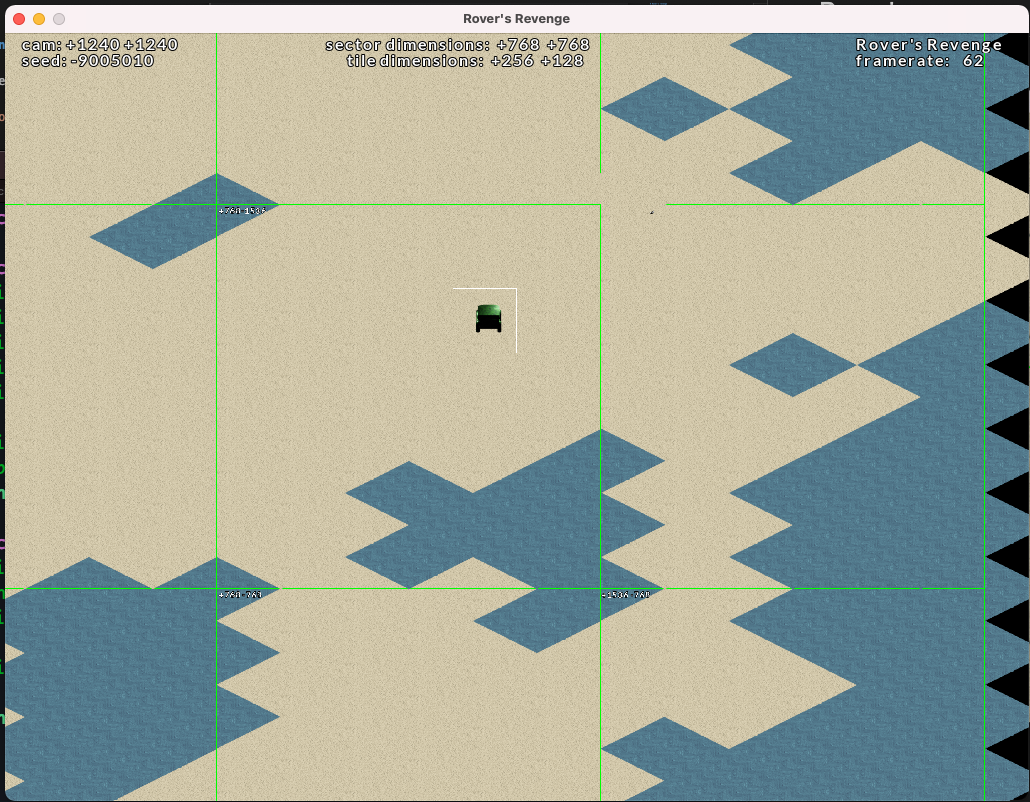
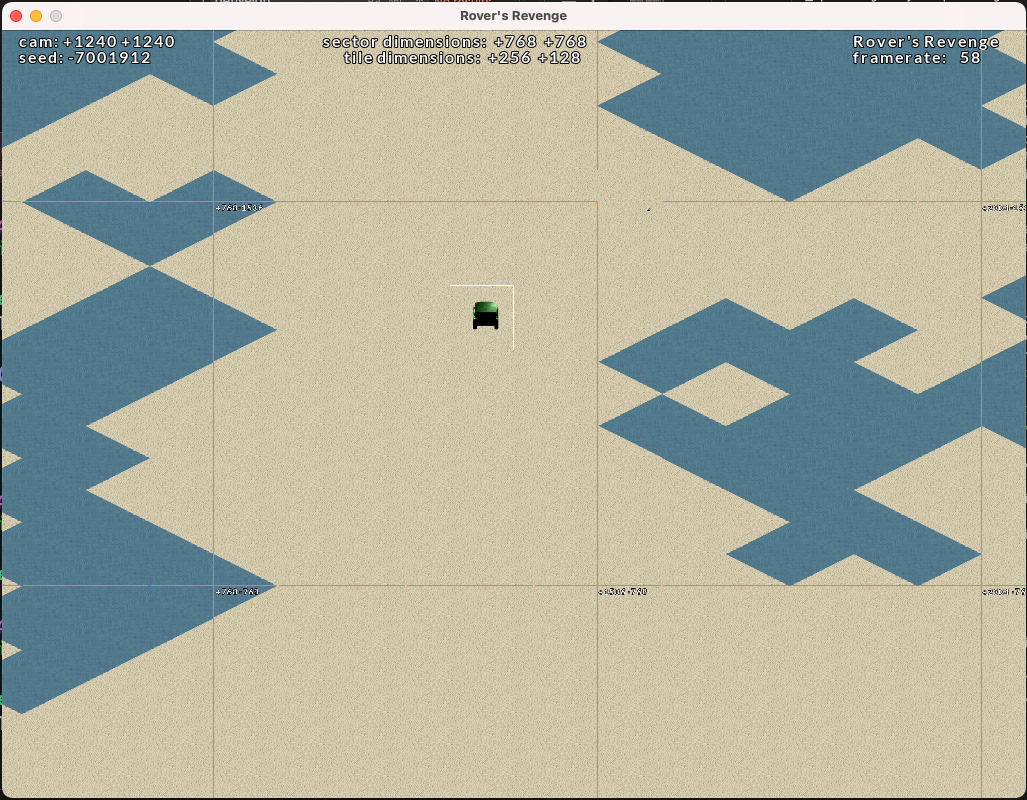
docs: updated task list and screenshot

diff --git a/src/map/isometric-tile-map-sector.cpp b/src/map/isometric-tile-map-sector.cpp
@@ -32,7 +32,7 @@ IsometricTileMapSector::IsometricTileMapSector(
   const double octaves = 16;
 
   const siv::PerlinNoise perlin(
-      _deterministicPrng->generateNextRandomNumber(0, 900));
+      _deterministicPrng->generateNextRandomNumber(0, 49));
   for (int y = 0; y < _tilesPerAxis.second; y++) {
     for (int x = 0; x < _tilesPerAxis.first; x++) {
       // TODO: Centralise this upper bound. I'm think about the best

diff --git a/src/state/game-save-state.cpp b/src/state/game-save-state.cpp
@@ -2,7 +2,7 @@
 
 GameSaveState::GameSaveState(SpriteRegistry &spriteRegistry)
     : _spriteRegistry(spriteRegistry) {
-  _gameSeed = -9005010;
+  _gameSeed = -7001912;
   _renderVisibilityDistance = 2400;
 }
 

diff --git a/README.md b/README.md
@@ -104,7 +104,6 @@ montage water_tile_0_0*.png -tile 10x10 -geometry 256x128+0+0 water_tile_0_sheet
 
 ## TODOS
 
-- The isVisible candidate sectors for rendering has to account to go beyond just the current principle sector and its neighbours, it needs neighbours of neighbours. Cause: ability to zoom out.
 - Aggregation relationship between Player and player's sprite (Player=owner).
 - Draw render visibility box in debug mode.
 - Double check that the Blender positioning of the water tile wasn't modified when the tile was updated last. I suspect it's off by a few pixles somewhere.
